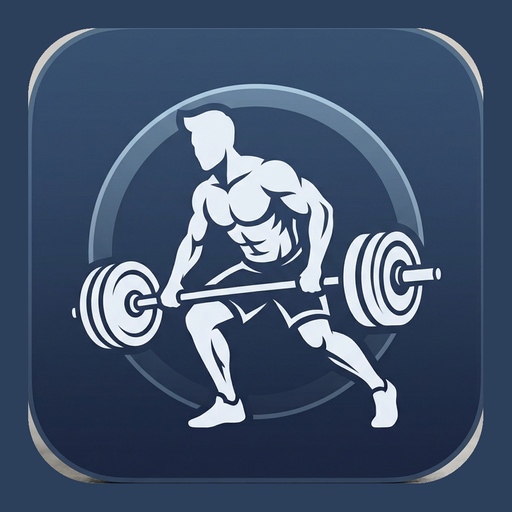
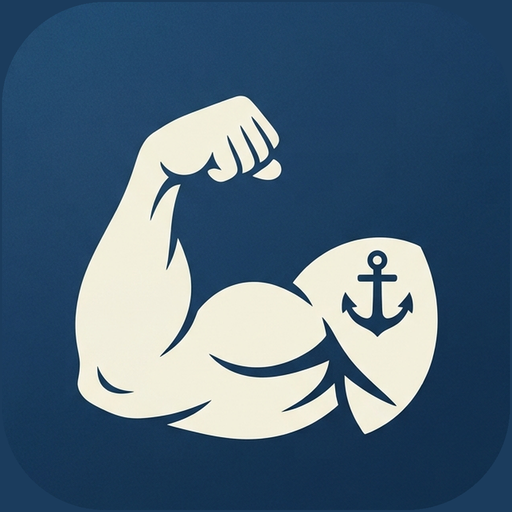
Add files via upload

diff --git a/sw.js b/sw.js
@@ -2,7 +2,7 @@
    Stratégie : network-first pour la page (toujours la dernière version en ligne,
    cache en secours hors-ligne) ; cache-first pour les icônes/manifest.
    Plus besoin de monter la version à chaque déploiement de index.html. */
-const CACHE = 'progression-v2026-07-12d';
+const CACHE = 'progression-v2026-07-17';
 const ASSETS = [
   './',
   './index.html',